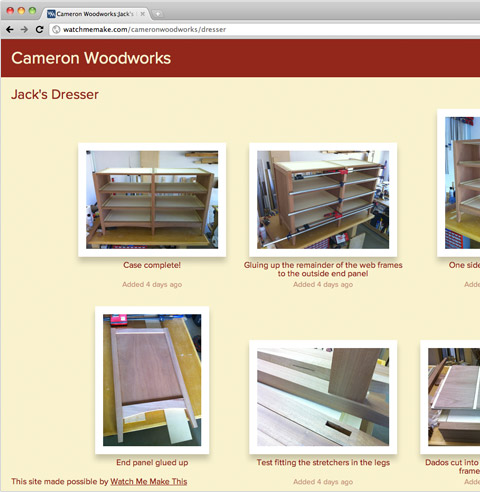
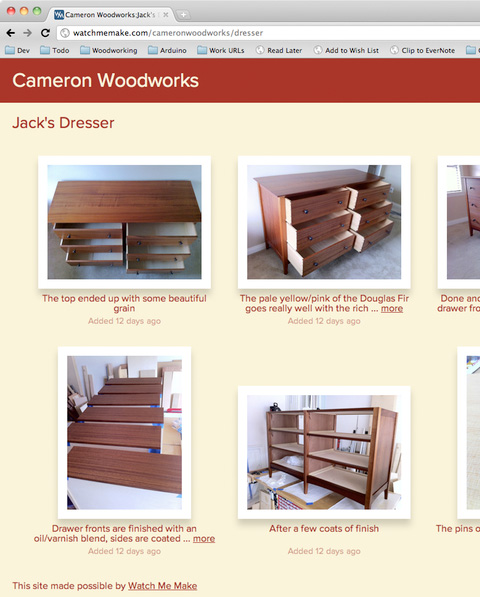
Added iPhone to homepage, updated footer with links to blog, help, contact

diff --git a/app/assets/stylesheets/site.css.sass b/app/assets/stylesheets/site.css.sass
@@ -241,8 +241,10 @@ body.site
   footer
     position: fixed
     bottom: 0
-    padding: 10px 10px 10px 0
+    padding: 10px 10px 10px 20px
+    margin: 0 0 0 -20px
     clear: both
     text-align: center
     -webkit-border-radius: 0 10px 0 0
     -moz-border-radius: 0 10px 0 0
+    
